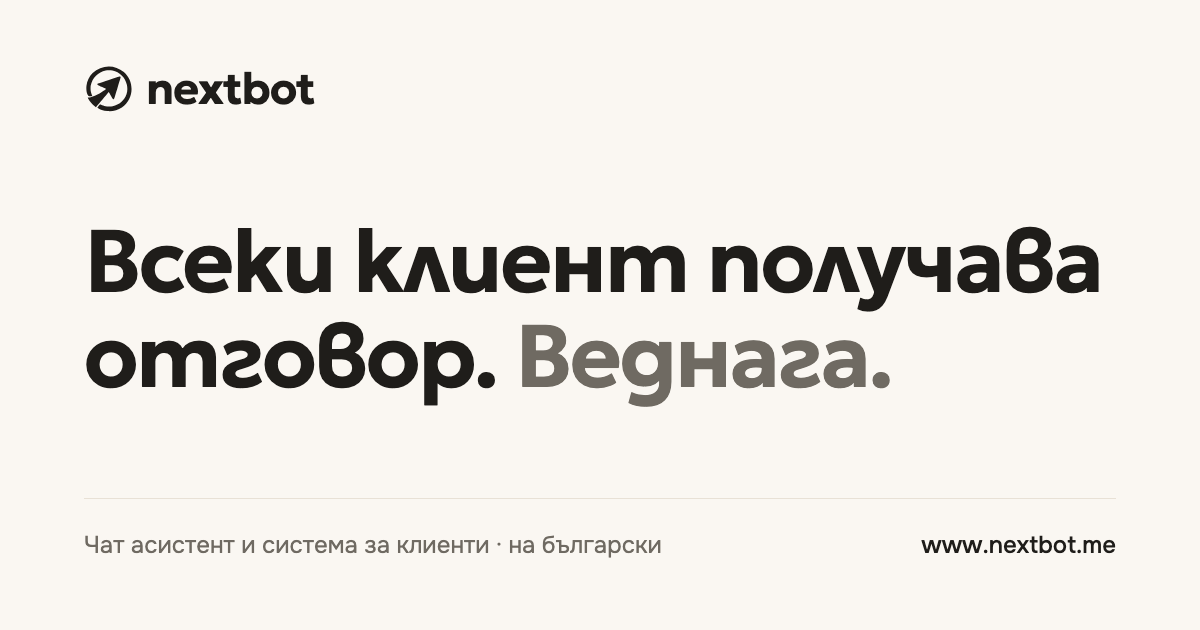
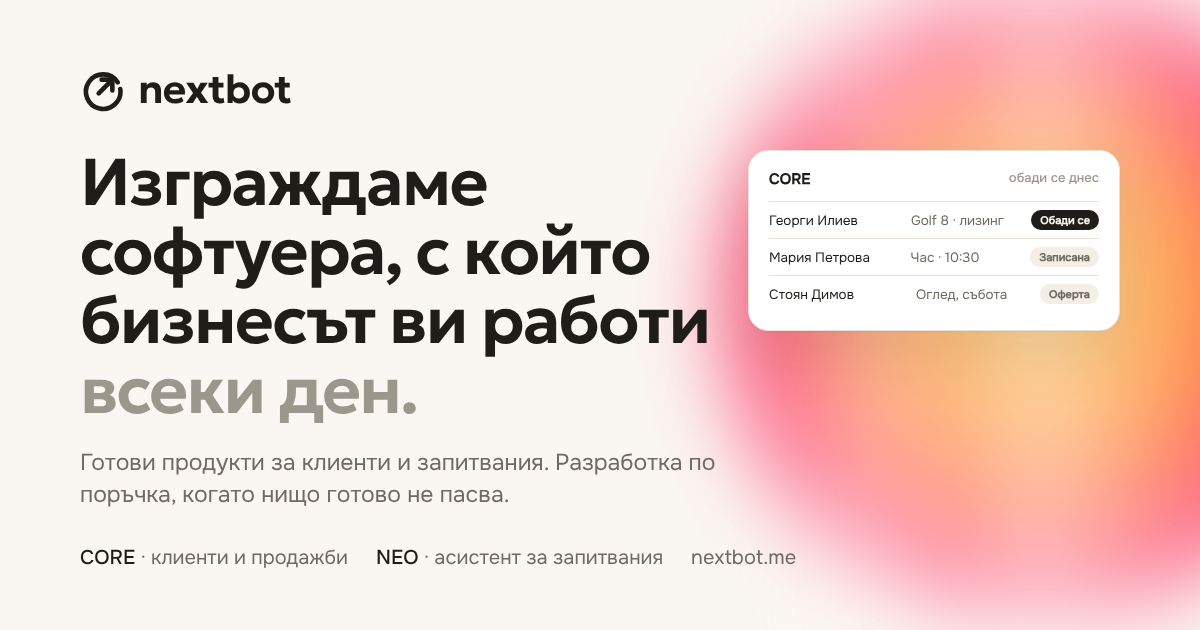
Open Graph: нова картинка със слогана на компанията

diff --git a/lib/seo.ts b/lib/seo.ts
@@ -6,7 +6,7 @@ import type { Metadata } from 'next'
 
 export const SITE_URL = 'https://www.nextbot.me'
 export const SITE_NAME = 'NextBot'
-export const OG_IMAGE = { url: '/og.png', width: 1200, height: 630, alt: 'NextBot — Всеки клиент получава отговор. Веднага.' }
+export const OG_IMAGE = { url: '/og.png', width: 1200, height: 630, alt: 'NextBot — Изграждаме софтуера, с който бизнесът ви работи всеки ден.' }
 
 /** Public pages that go into sitemap.xml (no /vatreshno, no legal pages while they are „В подготовка“). */
 export const PUBLIC_PAGES = [

diff --git a/app/layout.tsx b/app/layout.tsx
@@ -58,7 +58,7 @@ export const metadata: Metadata = {
     url: "https://www.nextbot.me",
     siteName: "NextBot",
     locale: "bg_BG",
-    images: [{ url: "/og.png", width: 1200, height: 630, alt: "NextBot — Всеки клиент получава отговор. Веднага." }],
+    images: [{ url: "/og.png", width: 1200, height: 630, alt: "NextBot — Изграждаме софтуера, с който бизнесът ви работи всеки ден." }],
     type: "website",
   },
   twitter: {
